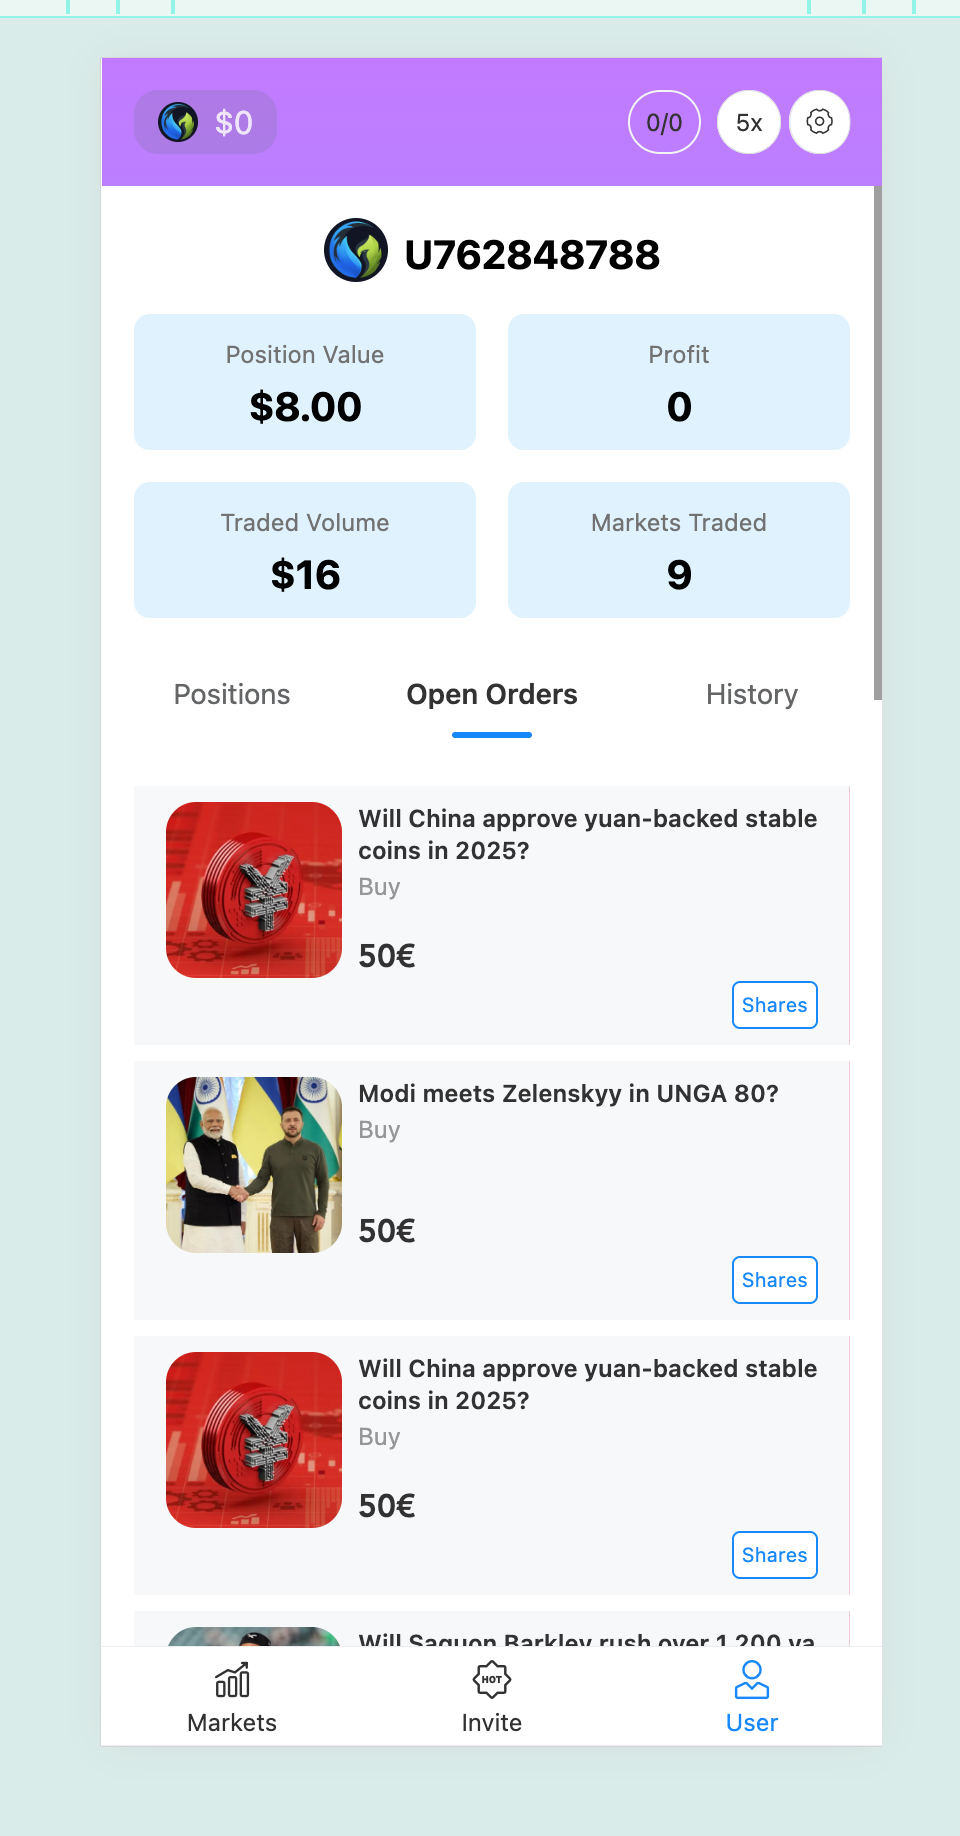
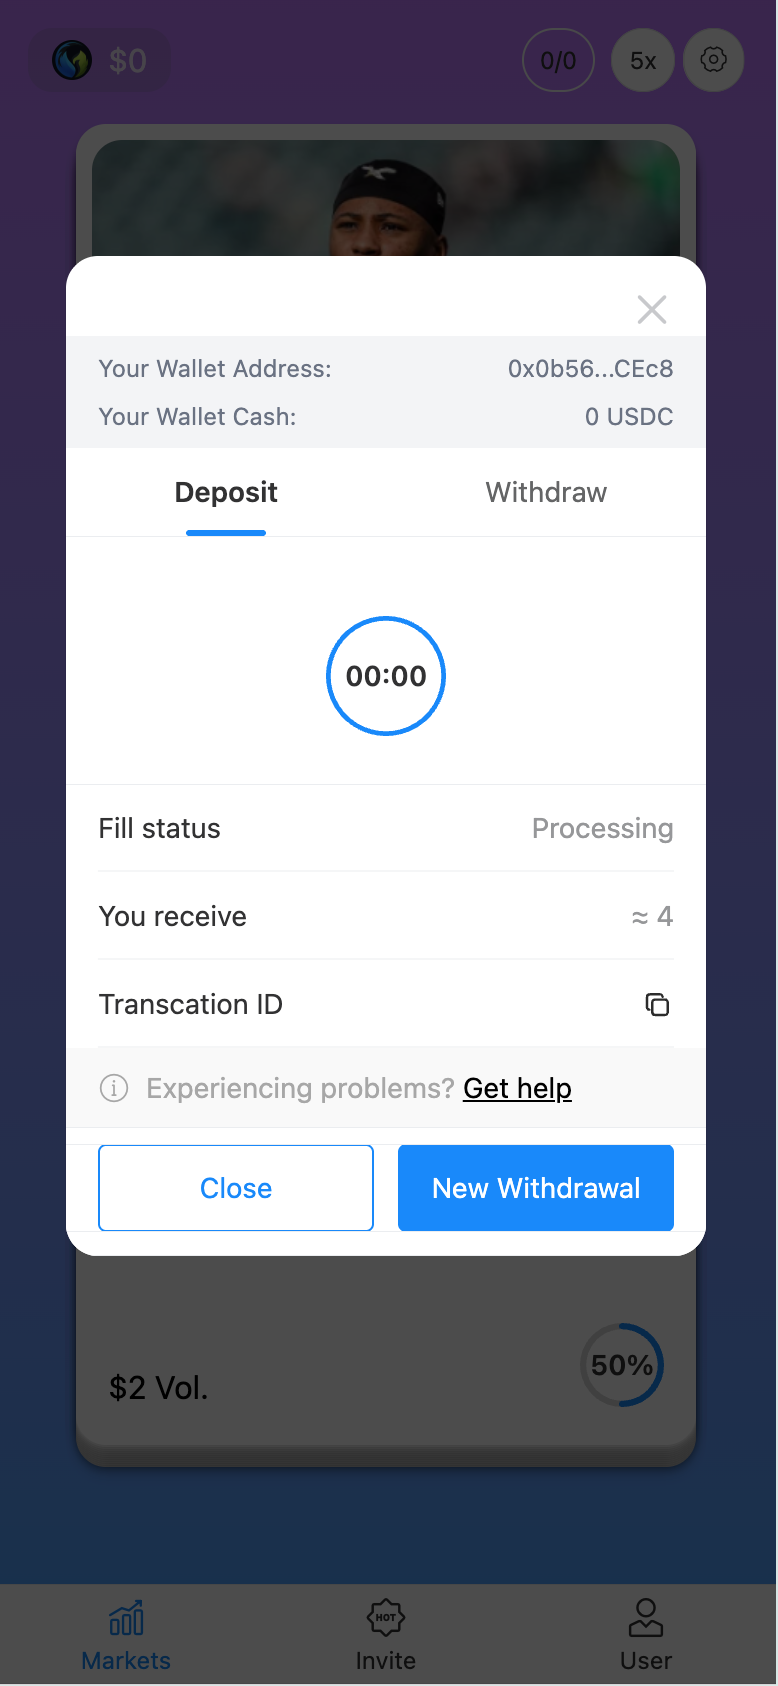
docs: update README with new cctp images and layout
Add new cctp images (3.png and 4.png) and reformat image display in README to use a table layout for better organization

diff --git a/README.md b/README.md
@@ -4,9 +4,8 @@
 
 During the Circle Hackathon with CCTP V2, we built a multichain USDC payment system. Which support our users that can deposit token cross chain from other chain into AVAX on the  TuringMarket Lite application(https://cctp-dev-lite.turingmarket.cc/)
 
-![cctp-1.png](./assets/cctp/1.png)
-
-![cctp-2.png](./assets/cctp/2.png)
+| ![cctp-1.png](./assets/cctp/1.png) | ![cctp-2.png](./assets/cctp/2.png) | ![cctp-3.png](./assets/cctp/3.png) | ![cctp-4.png](./assets/cctp/4.png) |
+|----------------------------------|----------------------------------|----------------------------------|----------------------------------|
 
 ## Introduction
 
